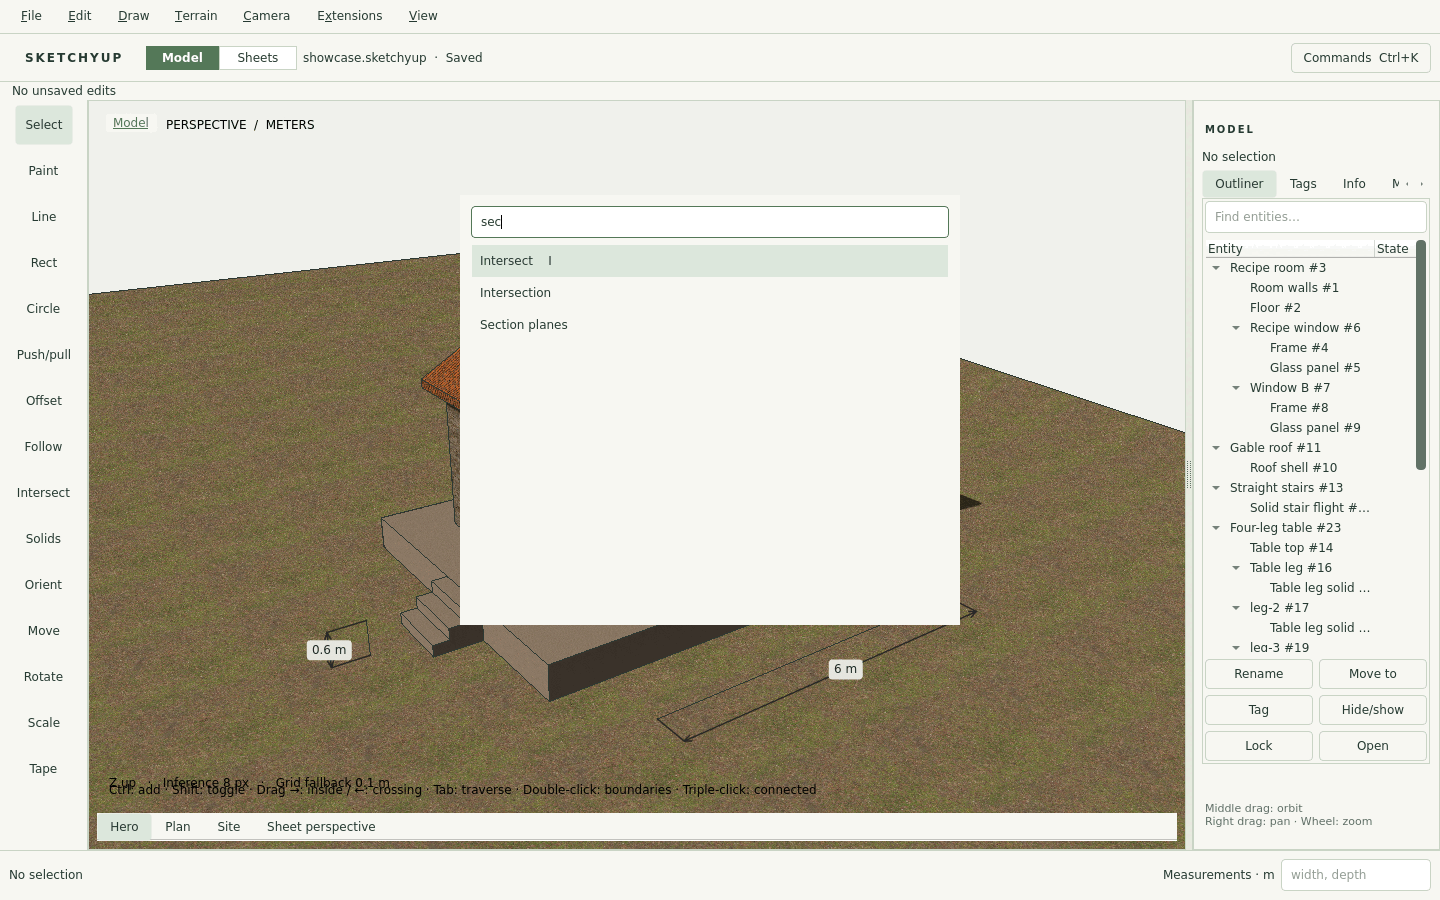
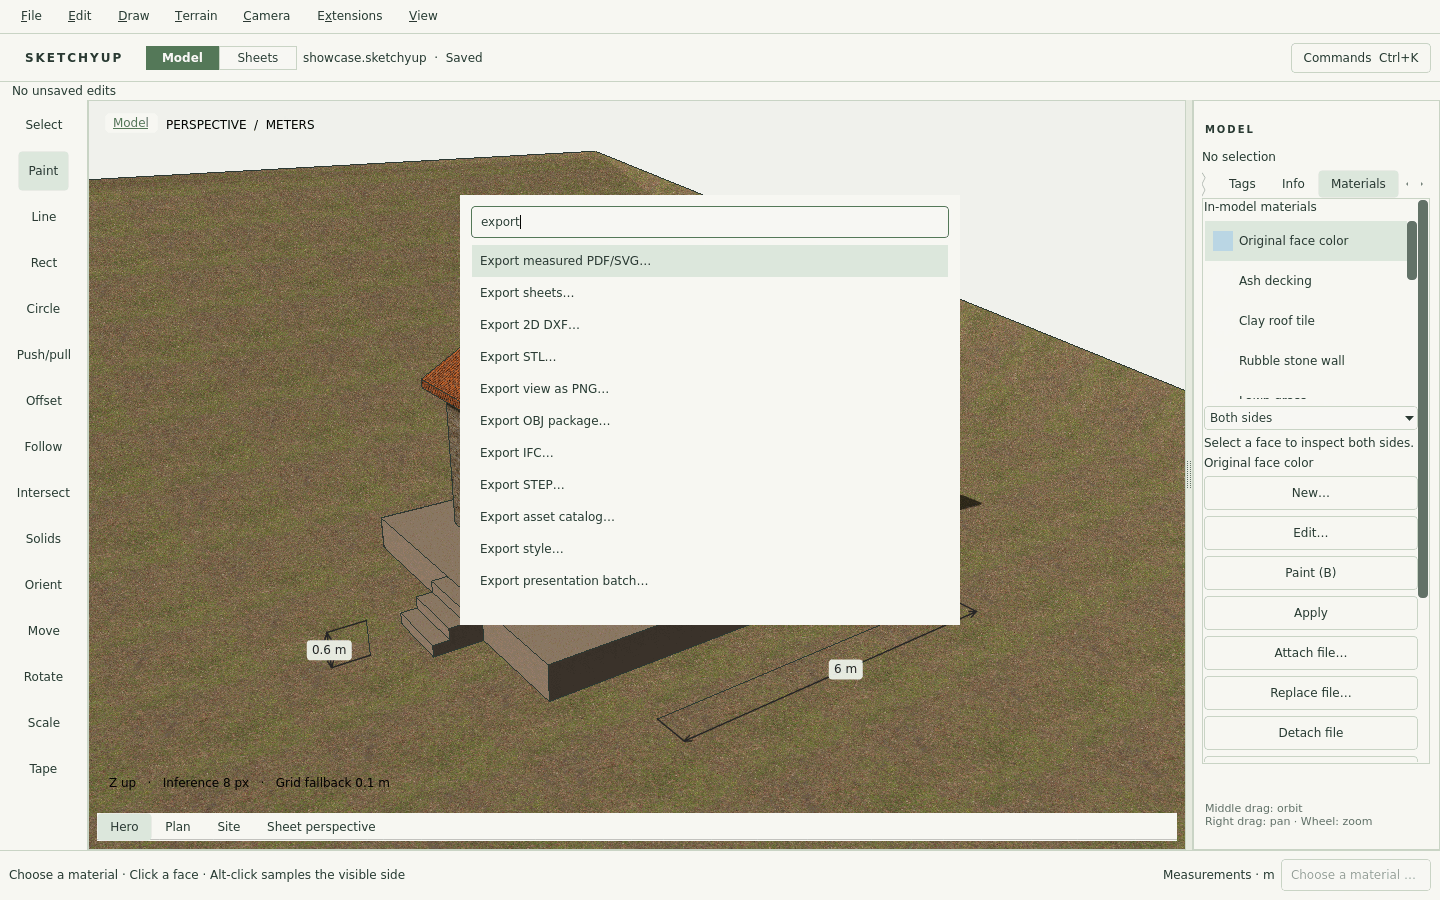
docs(images): fix the hint lines, add the dining table, regenerate the PNGs
- The model shots use the Paint tool (B) instead of Select: the Select hint
  line overlaps the saved-scene tabs, and Orbit and Pan draw a camera hint.
- The components shot places the dining table (a configurable assembly) beside
  the recipe table and shows its parameters in the Info panel.
- The terrain's back edge is 5 m above the front (was 1.6 m), so the ground
  rises behind the house. The terrain shot has nothing selected and the Sun and
  shadows panel open.
- The palette shot types "export", which fills the list.
- Each shot gets a fresh profile and model copy, so no recovery dialog carries
  over from an earlier shot.
- Palette size is 192 colours to keep every PNG under 500 KB.
- README: the Dockerfile build and the regenerate commands.

diff --git a/docs/images/README.md b/docs/images/README.md
@@ -4,30 +4,53 @@ These PNGs show SketchyUp 1.7.0 for the README. They are all 1440×900 and come 
 a small original showcase house, not from a real project.
 
 - `hero-light.png`, `hero-dark.png`: the hero view (textured house, stairs to a
-  timber deck, sun shadows, the Outliner), in the light and dark themes.
-- `components.png`: the four-leg table selected, with its recipe parameters in the
-  Entity info panel.
+  timber deck, sun shadows, the Outliner), in the light and dark themes. The ground
+  rises behind the house.
+- `components.png`: the dining table, a configurable assembly, selected. Its width,
+  depth, height, legs and apron are in the Info panel under "Parameters · this
+  placement". It stands on the deck beside the recipe table.
 - `sheets.png`: the Sheets workspace with sheet A-101 (plan view and perspective view).
-- `terrain.png`: the site terrain, selected, with its Entity info panel open.
-- `commands.png`: the Ctrl+K command palette with "sec" typed.
+- `terrain.png`: the site terrain with nothing selected and the Sun and shadows panel open.
+- `commands.png`: the Ctrl+K command palette with "export" typed.
 
 ## Source
 
 The model is built from two CLI scripts:
 
-- `showcase.json`: the house, deck, stairs, table, terrain, dimensions, textured
+- `showcase.json`: the house, deck, stairs, recipe table, terrain, dimensions, textured
   materials (textures from `resources/textures/`, embedded as base64), saved scenes
-  Hero, Plan, Site and Sheet perspective, and sun shadows.
+  Hero, Plan, Site and Sheet perspective, and sun shadows. The terrain's back edge is
+  5 m above its front edge, so the ground rises behind the house.
 - `showcase-sheet.json`: sheet A-101 with its plan and perspective views and title text.
   Drawing sheet operations cannot share a batch with model operations, so this is a
   second batch.
 
+The dining table is not in the scripts: `catalog.import` reads only `.sketchycat`
+catalogs, not the bundled assembly library. The components shot places it in the app,
+at (1.6, −0.95, 0.6) m, by choosing it in the Components list and typing that position
+into the Measurements box.
+
+The model shots use the Paint tool (B). The Select tool's hint line overlaps the scene
+tabs, and Orbit and Pan draw a camera hint of their own, so Paint keeps the viewport
+clean. Remove that workaround from `scripts/capture-screenshots.sh` when the Select hint
+is fixed.
+
 ## Regenerate
 
-`scripts/capture-screenshots.sh` builds both scripts into a temporary directory,
-starts its own Xvfb with an isolated home directory, drives SketchyUp through the
-shot list, and writes the PNGs. Run it in the screenshot image, which provides Xvfb,
-xdotool, ImageMagick and the SketchyUp 1.7.0 package (`sketchyup-shots:1.7.0`):
+Build the screenshot image from `scripts/screenshots.Dockerfile`. It installs the
+SketchyUp 1.7.0 package from the GitHub release, checks it against that release's
+`SHA256SUMS`, and adds Xvfb, xdotool and ImageMagick. The build needs network access.
+Its context is `packaging/arch`, which supplies the pinned mirror list. Building with the
+tag `sketchyup-shots:1.7.0` replaces any local image with that tag.
+
+```sh
+docker build -f scripts/screenshots.Dockerfile --build-arg SKETCHYUP_VERSION=1.7.0 \
+  -t sketchyup-shots:1.7.0 packaging/arch
+```
+
+Then run the capture. `scripts/capture-screenshots.sh` builds both scripts into a
+temporary directory, starts its own Xvfb with an isolated home directory for each shot,
+drives SketchyUp through the shot list, and writes the PNGs:
 
 ```sh
 docker run --rm --network none --memory 3g --cpus 2 --user "$(id -u):$(id -g)" \
